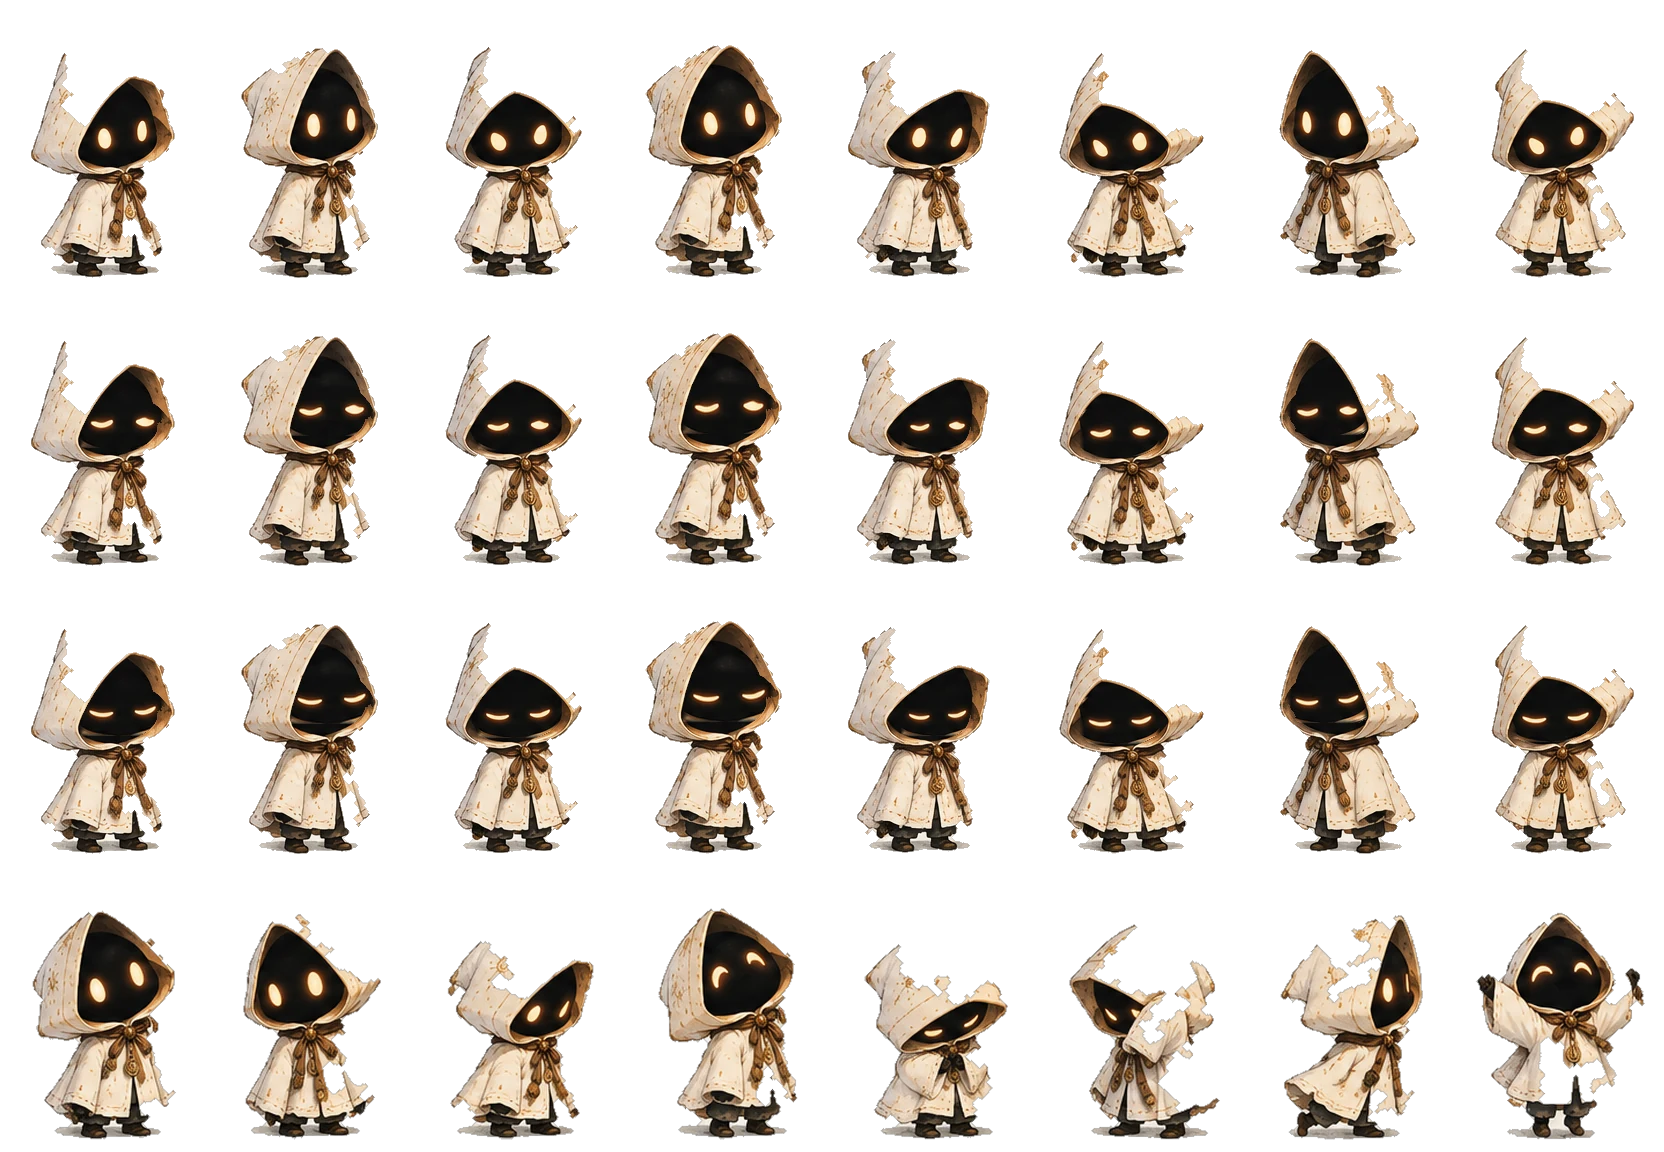
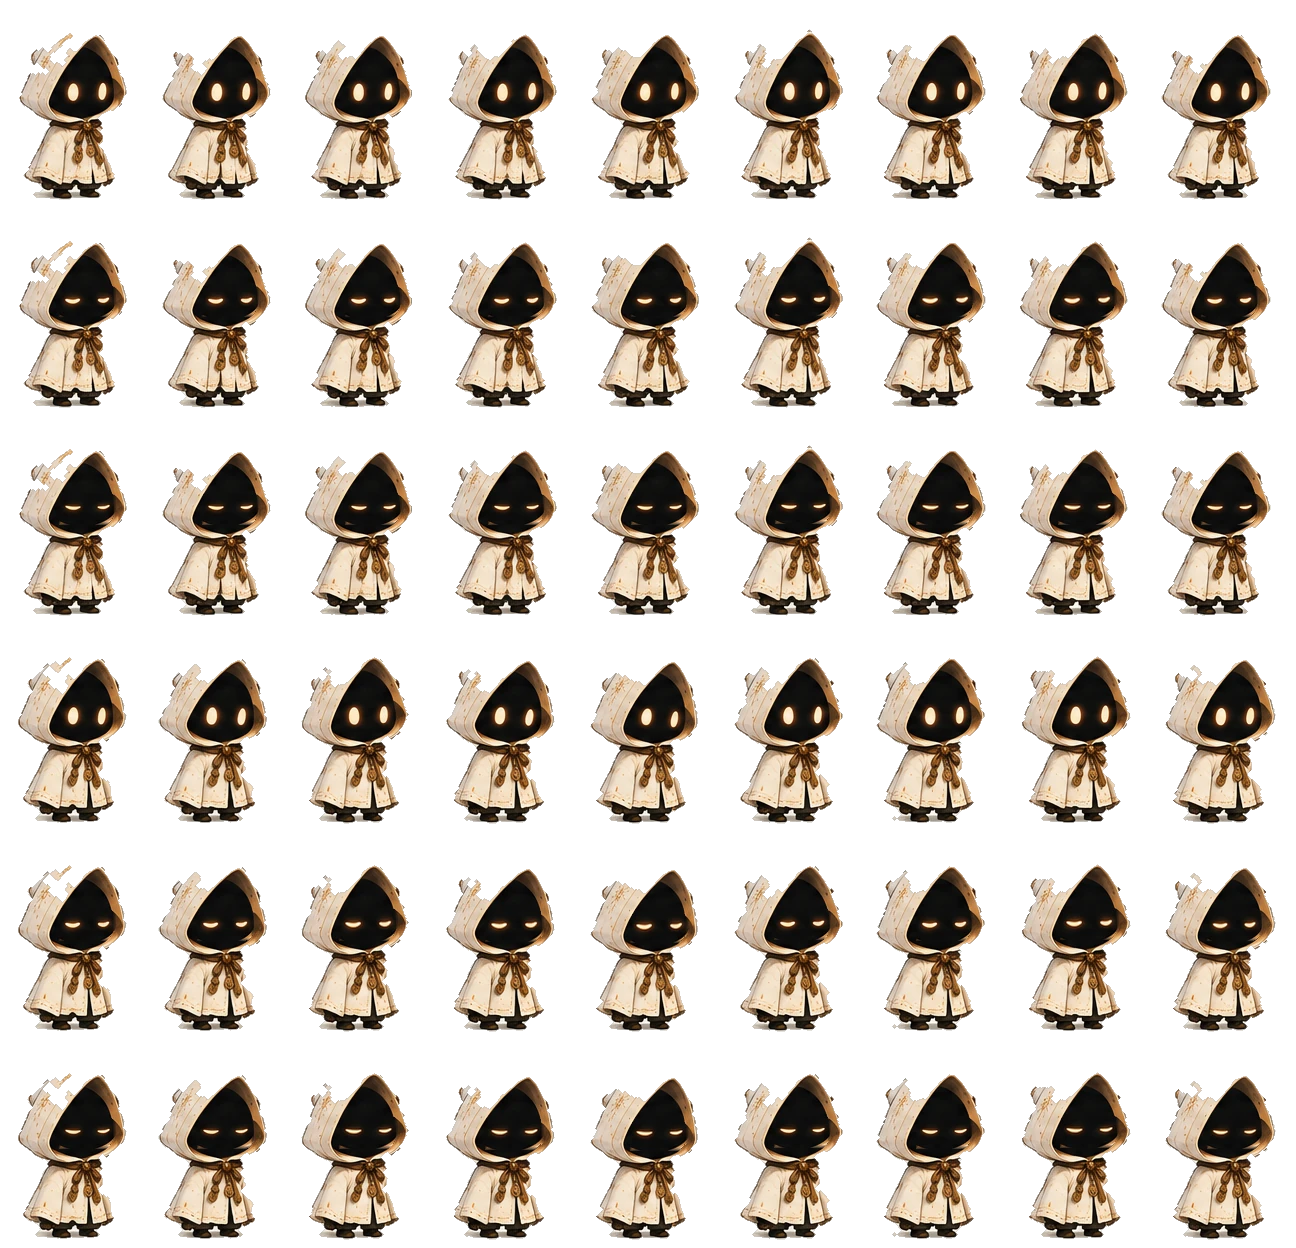
feat(ux): subtle idle from lumi-slow-idle.png — breath loop, occasional sway, no pose swaps; feet no longer clipped
- public/lumi-idle.webp is now a 9×6 grid from mockups/lumi-slow-idle.png: the
  breath loop and the sway loop, each with the sheet's blink eyes composited on
  (open / half / shut rows), one pose at one scale throughout
- LumiCompanion plays breath at ~320ms/frame, hands over to one sway pass every
  20–45s at the shared rest frame, blinks by switching the eye row; frames still
  fade in over each other
- micro variations dropped: distinct drawings read as image swaps, not movement
- .companion sits 2px above the viewport edge (was −4px), so her feet are no
  longer cut off

diff --git a/src/components/shell/LumiCompanion.tsx b/src/components/shell/LumiCompanion.tsx
@@ -1,37 +1,27 @@
 "use client";
 
 import { useEffect, useState } from "react";
-import {
-  LUMI_IDLE_FRAMES,
-  LUMI_MOMENTS,
-  LumiSprite,
-  cellSize,
-  idleCell,
-  momentCell,
-  type LumiEyes,
-  type LumiMoment,
-} from "@/components/chat/LumiSprite";
+import { LUMI_IDLE_FRAMES, LumiSprite, cellSize, idleCell, type LumiEyes, type LumiLoop } from "@/components/chat/LumiSprite";
 
 const HEIGHT = 150;
-const FRAME_MS = 520; // eight frames ≈ one breath every four seconds
+const BREATH_MS = 320; // nine frames ≈ one breath every three seconds
+const SWAY_MS = 560; // nine frames ≈ five seconds, per the sheet
 
 /**
  * Lumi in the corner of the screen, keeping you company. Full figure, standing
  * on the bottom edge. Purely decorative: no clicks, no state, nothing to maintain.
  *
  * Idle life, all of it off under `prefers-reduced-motion`:
- * - the sheet's eight-frame idle loop (breathe + sway), each frame fading in
- *   over the last so the motion reads as movement, not a slideshow
+ * - the sheet's nine-frame breath loop, each frame fading in over the last
+ * - every so often one pass of the sway loop, then back to breathing
  * - a blink every few seconds, composited onto whichever frame is showing so
- *   the two cycles run together
- * - now and then a micro variation (head tilt, look up, fidget…) faded over the
- *   loop and held for a beat
+ *   the cycles run together
+ * One pose throughout — small movements, never a swap to another drawing.
  */
 export function LumiCompanion() {
+  const [loop, setLoop] = useState<LumiLoop>("breath");
   const [frame, setFrame] = useState(0);
   const [eyes, setEyes] = useState<LumiEyes>("open");
-  const [moment, setMoment] = useState<LumiMoment | null>(null);
-  const [momentOn, setMomentOn] = useState(false);
 
   useEffect(() => {
     if (window.matchMedia("(prefers-reduced-motion: reduce)").matches) return;
@@ -40,45 +30,47 @@ export function LumiCompanion() {
     const after = (ms: number, fn: () => void) => timers.push(setTimeout(fn, ms));
     const between = (lo: number, hi: number) => lo + Math.random() * (hi - lo);
 
-    const loop = setInterval(() => setFrame((f) => (f + 1) % LUMI_IDLE_FRAMES), FRAME_MS);
+    // The loop: breath by default; a sway pass runs its nine frames once, then
+    // hands back to breath at frame 0 (both loops start from the same rest pose).
+    let current: LumiLoop = "breath";
+    let swayPending = false;
+    let f = 0;
+    const tick = () => {
+      f = (f + 1) % LUMI_IDLE_FRAMES;
+      if (f === 0) {
+        // Loops only hand over at the rest frame, which both share.
+        if (current === "sway") {
+          current = "breath";
+          setLoop(current);
+          scheduleSway();
+        } else if (swayPending) {
+          swayPending = false;
+          current = "sway";
+          setLoop(current);
+        }
+      }
+      setFrame(f);
+      after(current === "sway" ? SWAY_MS : BREATH_MS, tick);
+    };
+    const scheduleSway = () => after(between(20000, 45000), () => (swayPending = true));
 
-    // Blink per the sheet's timing: half → shut → half → open, ~0.4s. Occasionally doubled.
+    // Blink: half → shut → half → open, ~0.3s. Occasionally doubled.
     const blink = (thenDouble: boolean) => {
       setEyes("half");
-      after(60, () => setEyes("closed"));
-      after(200, () => setEyes("half"));
-      after(260, () => {
+      after(70, () => setEyes("closed"));
+      after(210, () => setEyes("half"));
+      after(280, () => {
         setEyes("open");
         if (thenDouble) after(180, () => blink(false));
         else scheduleBlink();
       });
     };
-    const scheduleBlink = () => after(between(2800, 7000), () => blink(Math.random() < 0.2));
+    const scheduleBlink = () => after(between(2500, 6500), () => blink(Math.random() < 0.2));
 
-    // A moment: mount, fade in over the loop, hold, fade out, unmount. Never the same one twice running.
-    let last: LumiMoment | null = null;
-    const showMoment = () => {
-      const options = LUMI_MOMENTS.filter((m) => m !== last);
-      const next = options[Math.floor(Math.random() * options.length)];
-      last = next;
-      setMoment(next);
-      after(30, () => setMomentOn(true));
-      after(between(2400, 3400), () => {
-        setMomentOn(false);
-        after(450, () => {
-          setMoment(null);
-          scheduleMoment();
-        });
-      });
-    };
-    const scheduleMoment = () => after(between(18000, 40000), showMoment);
-
+    after(BREATH_MS, tick);
     scheduleBlink();
-    after(between(6000, 12000), showMoment);
-    return () => {
-      clearInterval(loop);
-      timers.forEach(clearTimeout);
-    };
+    scheduleSway();
+    return () => timers.forEach(clearTimeout);
   }, []);
 
   const prev = (frame + LUMI_IDLE_FRAMES - 1) % LUMI_IDLE_FRAMES;
@@ -90,12 +82,11 @@ export function LumiCompanion() {
         {frames.map((i) => (
           <LumiSprite
             key={i}
-            cell={idleCell(i, eyes)}
+            cell={idleCell(loop, i, eyes)}
             height={HEIGHT}
             className={`companion-frame ${i === frame ? "on" : i === prev ? "prev" : ""}`}
           />
         ))}
-        {moment && <LumiSprite cell={momentCell(moment)} height={HEIGHT} className={`companion-moment ${momentOn ? "on" : ""}`} />}
       </div>
     </div>
   );

diff --git a/src/components/chat/LumiSprite.tsx b/src/components/chat/LumiSprite.tsx
@@ -5,33 +5,36 @@ import type { CSSProperties } from "react";
  *
  * - `public/lumi-heads.png` — one row of 176px square cells, the six head
  *   expressions from `mockups/lumi.png`. Used inside the round avatar.
- * - `public/lumi-idle.webp` — a 8×4 grid of 208×288 cells from
- *   `mockups/lumi-idle.png`: row 0 is the eight-frame idle loop (breathe +
- *   sway), rows 1–2 are the same frames with the sheet's half-shut and shut
- *   eyes composited on, row 3 is the eight micro variations.
+ * - `public/lumi-idle.webp` — a 9×6 grid of 144×208 cells from
+ *   `mockups/lumi-slow-idle.png`: rows 0–2 are the nine-frame breath loop with
+ *   open / half-shut / shut eyes (the sheet's blink frames composited on),
+ *   rows 3–5 the nine-frame sway loop likewise. One pose, tiny movements.
  *
  * A new state is a new cell in one of these lists, never a new component.
  */
 export const LUMI_EXPRESSIONS = ["neutral", "blink", "happy", "curious", "excited", "sleepy"] as const;
 export const LUMI_EYES = ["open", "half", "closed"] as const;
-export const LUMI_MOMENTS = ["head-tilt", "curious", "look-down", "look-up", "fidget", "adjust-cloak", "small-step", "stretch"] as const;
-export const LUMI_IDLE_FRAMES = 8;
+export const LUMI_LOOPS = ["breath", "sway"] as const;
+export const LUMI_IDLE_FRAMES = 9;
 
 export type LumiExpression = (typeof LUMI_EXPRESSIONS)[number];
 export type LumiEyes = (typeof LUMI_EYES)[number];
-export type LumiMoment = (typeof LUMI_MOMENTS)[number];
+export type LumiLoop = (typeof LUMI_LOOPS)[number];
 
 const SHEETS = {
   head: { src: "/lumi-heads.png", cols: LUMI_EXPRESSIONS.length, rows: 1, w: 176, h: 176 },
-  body: { src: "/lumi-idle.webp", cols: LUMI_IDLE_FRAMES, rows: LUMI_EYES.length + 1, w: 208, h: 288 },
+  body: { src: "/lumi-idle.webp", cols: LUMI_IDLE_FRAMES, rows: LUMI_LOOPS.length * LUMI_EYES.length, w: 144, h: 208 },
 } as const;
 
 export type LumiCell = { sheet: keyof typeof SHEETS; col: number; row: number };
 
 export const headCell = (expression: LumiExpression): LumiCell => ({ sheet: "head", col: LUMI_EXPRESSIONS.indexOf(expression), row: 0 });
-/** Idle frame 0–7 with the given eye state. */
-export const idleCell = (frame: number, eyes: LumiEyes): LumiCell => ({ sheet: "body", col: frame, row: LUMI_EYES.indexOf(eyes) });
-export const momentCell = (moment: LumiMoment): LumiCell => ({ sheet: "body", col: LUMI_MOMENTS.indexOf(moment), row: LUMI_EYES.length });
+/** Frame 0–8 of a loop with the given eye state. */
+export const idleCell = (loop: LumiLoop, frame: number, eyes: LumiEyes): LumiCell => ({
+  sheet: "body",
+  col: frame,
+  row: LUMI_LOOPS.indexOf(loop) * LUMI_EYES.length + LUMI_EYES.indexOf(eyes),
+});
 
 /** Rendered size of a cell drawn at `height` px. */
 export function cellSize(sheet: keyof typeof SHEETS, height: number) {

diff --git a/src/app/globals.css b/src/app/globals.css
@@ -165,14 +165,14 @@ body::before {
 .companion {
   position: fixed;
   right: 28px;
-  bottom: -4px;
+  bottom: 2px;
   z-index: 2;
   pointer-events: none;
   user-select: none;
 }
-/* Idle life. The eight idle frames are stacked; the current one fades in ON TOP
+/* Idle life. The nine loop frames are stacked; the current one fades in ON TOP
    of the previous (which stays opaque until covered), so she never turns
-   translucent mid-step. Moments fade in over the loop the same way. */
+   translucent mid-step. */
 .companion-figure { position: relative; }
 .companion-frame {
   position: absolute;
@@ -181,17 +181,9 @@ body::before {
   z-index: 0;
 }
 .companion-frame.prev { opacity: 1; z-index: 1; }
-.companion-frame.on { opacity: 1; z-index: 2; transition: opacity 320ms ease-in-out; }
-.companion-moment {
-  position: absolute;
-  inset: 0;
-  opacity: 0;
-  z-index: 3;
-  transition: opacity 420ms ease-in-out;
-}
-.companion-moment.on { opacity: 1; }
+.companion-frame.on { opacity: 1; z-index: 2; transition: opacity 260ms ease-in-out; }
 @media (prefers-reduced-motion: reduce) {
-  .companion-frame, .companion-moment { transition: none; }
+  .companion-frame { transition: none; }
 }
 
 /* ---------- Chat surfaces ---------- */

diff --git a/docs/design-system.md b/docs/design-system.md
@@ -75,13 +75,13 @@ Heading defaults: none imposed. Headings are display-font lines set per surface;
 Avatar left, display lines right, quick-start chips below. Lines come from `core/ai/greeting.ts` — never hardcode copy in the component.
 
 ### Lumi sprites (`components/chat/LumiSprite.tsx`)
-The single source of Lumi's drawings. `public/lumi-heads.png`: one row of 176px square cells cut from `mockups/lumi.png` — neutral · blink · happy · curious · excited · sleepy. `public/lumi-idle.webp`: an 8×4 grid of 208×288 cells cut from `mockups/lumi-idle.png` — row 0 the eight-frame idle loop (breathe + sway, sway offsets preserved), rows 1–2 the same frames with the sheet's half-shut and shut eyes composited on (so blinking and swaying run together), row 3 the eight micro variations (head tilt · curious · look down · look up · fidget · adjust cloak · small step · stretch) scaled to the idle figure. `LumiSprite` draws one cell at a height via `background-position`; `headCell` / `idleCell` / `momentCell` address them. A new state is a new cell, never a new component.
+The single source of Lumi's drawings. `public/lumi-heads.png`: one row of 176px square cells cut from `mockups/lumi.png` — neutral · blink · happy · curious · excited · sleepy. `public/lumi-idle.webp`: a 9×6 grid of 144×208 cells cut from `mockups/lumi-slow-idle.png` — rows 0–2 the nine-frame **breath** loop with open, half-shut and shut eyes (the sheet's blink frames composited on, so blinking and breathing run together), rows 3–5 the nine-frame **sway** loop likewise. Every frame is the same pose at the same scale; frame-to-frame offsets from the sheet are preserved. `LumiSprite` draws one cell at a height via `background-position`; `headCell` / `idleCell` address them. A new state is a new cell, never a new component.
 
 ### Lumi avatar (`components/chat/LumiAvatar.tsx`)
 Forest circle with the hooded head. Props: `size` (default 68) and `expression` (default `neutral`). Never larger than the text it accompanies; never decorative on its own.
 
 ### Lumi companion (`components/shell/LumiCompanion.tsx`)
-Lumi, full figure, standing on the bottom-right edge of every page (`.companion`, fixed, 150px tall; hidden under 768px where she'd sit on the docked send button). Idle life: the eight idle frames play at 520ms each, every frame fading in **on top of** the previous one (which stays opaque until covered) so she never turns translucent; a blink every 3–7 s (half · shut · half, ~0.4s, occasionally doubled) by switching the eye row; a micro variation faded over the loop for 2.4–3.4 s — the first 6–12 s after arriving, then every 18–40 s. All of it stops under `prefers-reduced-motion`. `pointer-events: none`, `aria-hidden` — she is company, not a control.
+Lumi, full figure, standing 2px above the bottom-right edge of every page (`.companion`, fixed, 150px tall; hidden under 768px where she'd sit on the docked send button). Idle life: the breath loop at ~320ms/frame (one breath ≈ 3s), every frame fading in **on top of** the previous so she never turns translucent; every 20–45 s one pass of the sway loop at ~560ms/frame, then back to breathing; a blink every 2.5–6.5 s (half · shut · half, ~0.3s, occasionally doubled) by switching the eye row. No pose changes — the micro variations from `lumi-idle.png` read as image swaps and were dropped. All of it stops under `prefers-reduced-motion`. `pointer-events: none`, `aria-hidden` — she is company, not a control.
 
 ### Quick starts (`components/chat/QuickStarts.tsx`)
 Four chips + a round "another way in" button. They are starting points, not modes; from M2 they send a canned first message.

diff --git a/docs/decisions.md b/docs/decisions.md
@@ -14,3 +14,4 @@ Append-only. One entry per decision that changes `architecture.md`, `domain.md` 
 - **2026-09-11 · The character is Lumi.** Renamed in everything that names the character: persona prompt ("You are Lumi"), avatar/companion components and sprites, composer placeholder, greeting kicker, settings copy. The product, wordmark and page title stay **Rali** pending a decision. New sheet `mockups/lumi.png` replaces `rali.png`; the corner companion is now her full standing figure, the chat avatar her head.
 - **2026-09-12 · Chat layout is app-like, not document-like.** Viewport-height shell; transcript scrolls in its own region; composer docked. Quick starts follow the *sitting* rule (`isInSitting`, 6h). Voice input pulled forward from M7 to M2 via `useVoiceInput` (Web Speech API); Add file / Tools removed. Built on `feat/m2-voice-layout` from a worktree because another session was renaming the companion in the main checkout.
 - **2026-09-11 · Companion idle life comes from the animation sheet.** `mockups/lumi-idle.png` replaces the cross-faded poses from `lumi.png` for the corner companion: an eight-frame idle loop with the sheet's blink frames composited onto every idle frame, micro variations as rare moments. Frames fade in over each other (never a translucent midpoint). `public/lumi-idle.webp` replaces `lumi-body.png`; the head avatar is unchanged.
+- **2026-09-12 · Companion idle is the subtle sheet.** `mockups/lumi-slow-idle.png` (breath · blink · sway, one pose, 1–2px movements) replaces `lumi-idle.png` for the corner companion. Micro variations dropped: distinct drawings read as image swaps, not movement. Sway plays as an occasional single pass, per the sheet's usage notes.

diff --git a/docs/features.md b/docs/features.md
@@ -17,7 +17,7 @@ Rali   01 Chat · 02 Today · 03 Library · 04 Insights · 05 Settings
 - Nav carries **no counts, no badges, no dots** — by design (`design-philosophy.md` §3.2).
 - Open question (2026-09-11): the Lists mockup shows an icon nav with **Focus** in place of Library. Decide before M5.
 
-**Lumi in the corner** (`components/shell/LumiCompanion.tsx`): full figure standing on the bottom-right edge of every page — playing the sheet's idle loop (breathe + sway), blinking, and now and then a micro variation (head tilt, look up, fidget…). Decorative only — no clicks, no state. Still under reduced-motion.
+**Lumi in the corner** (`components/shell/LumiCompanion.tsx`): full figure standing on the bottom-right edge of every page — breathing, blinking, and now and then a slow sway — one pose, small movements. Decorative only — no clicks, no state. Still under reduced-motion.
 
 ---
 
